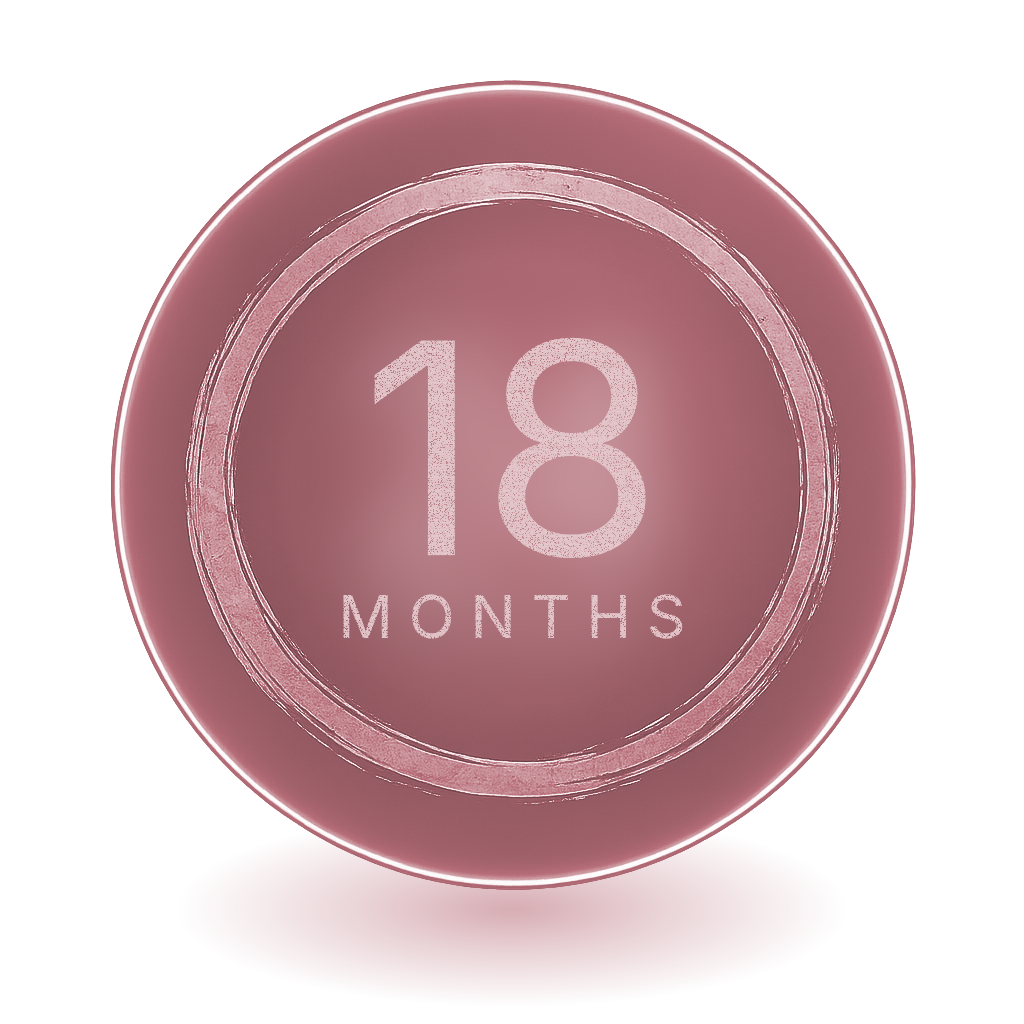
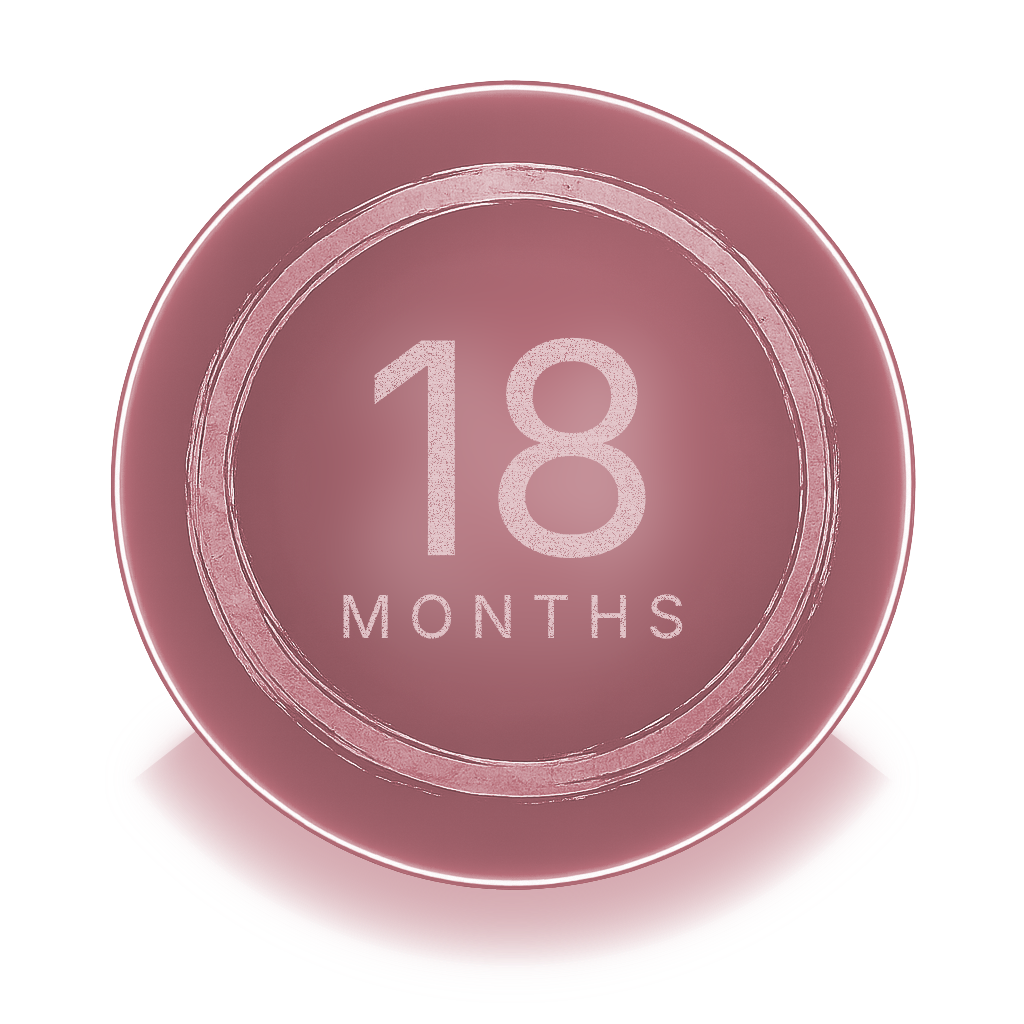
Glow band now hugs the coin's bottom curvature
Replaces the flat ellipse-with-disc-cutout approach with a true annular
sector (donut wedge): both inner and outer edges are arcs concentric
with the disc, so the glow band itself curves with the coin. Inner
radius 395 touches the disc edge; outer radius 485 extends 90px outward.
Filled with a radial gradient (bright at coin edge, fading outward)
then composited at three blur radii for soft taper at the angular ends.

https://claude.ai/code/session_01TqmVcPLJNZuf7Q6XCPWgNk

diff --git a/scripts/generate-badges.ts b/scripts/generate-badges.ts
@@ -292,11 +292,12 @@ function applyTint(ctx: SKRSContext2D, hex: string) {
   ctx.putImageData(img, 0, 0)
 }
 
-// Soft crescent glow that touches the bottom of the disc and curves
-// along its edge — like a lighter shadow you'd see under a coin. Built
-// by rendering a flat elliptical bloom positioned just below the disc,
-// then carving out the part that overlaps the disc itself so what's
-// left is a crescent that wraps the bottom curve.
+// Crescent glow that hugs the bottom curvature of the coin — both the
+// inner and outer edges are arcs concentric with the disc, so the glow
+// band itself follows the coin's curve. Built as an annular sector
+// (donut wedge) at the disc's bottom, filled with a radial gradient
+// that's brightest at the disc edge and fades outward, then composited
+// with multi-radius blur for a soft halo.
 function drawUnderGlow(ctx: SKRSContext2D, hex: string) {
   const [r, g, b] = hexToRgb(hex)
   const a = 0.4
@@ -307,36 +308,40 @@ function drawUnderGlow(ctx: SKRSContext2D, hex: string) {
   const off = createCanvas(SIZE, SIZE)
   const octx = off.getContext('2d')
 
-  // Flat ellipse, top tangent to the disc bottom (CY + ~395). Center
-  // sits below the disc so the bright peak shows just under the edge.
-  const cx = CX
-  const cy = CY + 425
-  const halfW = 240
-  const halfH = 70
+  // Annular sector that wraps the bottom of the disc.
+  const innerR = 395  // disc outer edge — glow's inner edge touches here
+  const outerR = 485  // glow extends 90px outward
+  const startAng = Math.PI * (38 / 180)
+  const endAng = Math.PI * (142 / 180)
 
-  octx.save()
-  octx.translate(cx, cy)
-  octx.scale(halfW / halfH, 1)
-  const grad = octx.createRadialGradient(0, 0, 0, 0, 0, halfH * 1.4)
+  octx.beginPath()
+  octx.arc(CX, CY, outerR, startAng, endAng)
+  octx.arc(CX, CY, innerR, endAng, startAng, true)
+  octx.closePath()
+
+  // Bright at inner edge (touching the coin), fading to transparent
+  // at the outer edge of the band.
+  const grad = octx.createRadialGradient(CX, CY, innerR, CX, CY, outerR)
   grad.addColorStop(0, `rgba(${lr}, ${lg}, ${lb}, 0.95)`)
-  grad.addColorStop(0.45, `rgba(${lr}, ${lg}, ${lb}, 0.5)`)
+  grad.addColorStop(0.5, `rgba(${lr}, ${lg}, ${lb}, 0.45)`)
   grad.addColorStop(1, `rgba(${lr}, ${lg}, ${lb}, 0)`)
   octx.fillStyle = grad
-  octx.beginPath()
-  octx.arc(0, 0, halfH * 1.4, 0, Math.PI * 2)
-  octx.fill()
-  octx.restore()
-
-  // Carve out the portion of the ellipse that would sit on top of the
-  // disc so the glow becomes a crescent that hugs the disc's bottom
-  // curve instead of bleeding into the coin.
-  octx.globalCompositeOperation = 'destination-out'
-  octx.fillStyle = '#000'
-  octx.beginPath()
-  octx.arc(CX, CY, 395, 0, Math.PI * 2)
   octx.fill()
 
+  // Composite back with stacked blurs so the band's hard angle ends
+  // soften into a natural taper and the inner edge bleeds slightly
+  // up against the coin.
+  ctx.save()
+  ctx.globalAlpha = 0.65
+  ctx.filter = 'blur(22px)'
   ctx.drawImage(off, 0, 0)
+  ctx.globalAlpha = 0.85
+  ctx.filter = 'blur(8px)'
+  ctx.drawImage(off, 0, 0)
+  ctx.globalAlpha = 1
+  ctx.filter = 'none'
+  ctx.drawImage(off, 0, 0)
+  ctx.restore()
 }
 
 async function renderBadge(template: any, d: Duration): Promise<Buffer> {
